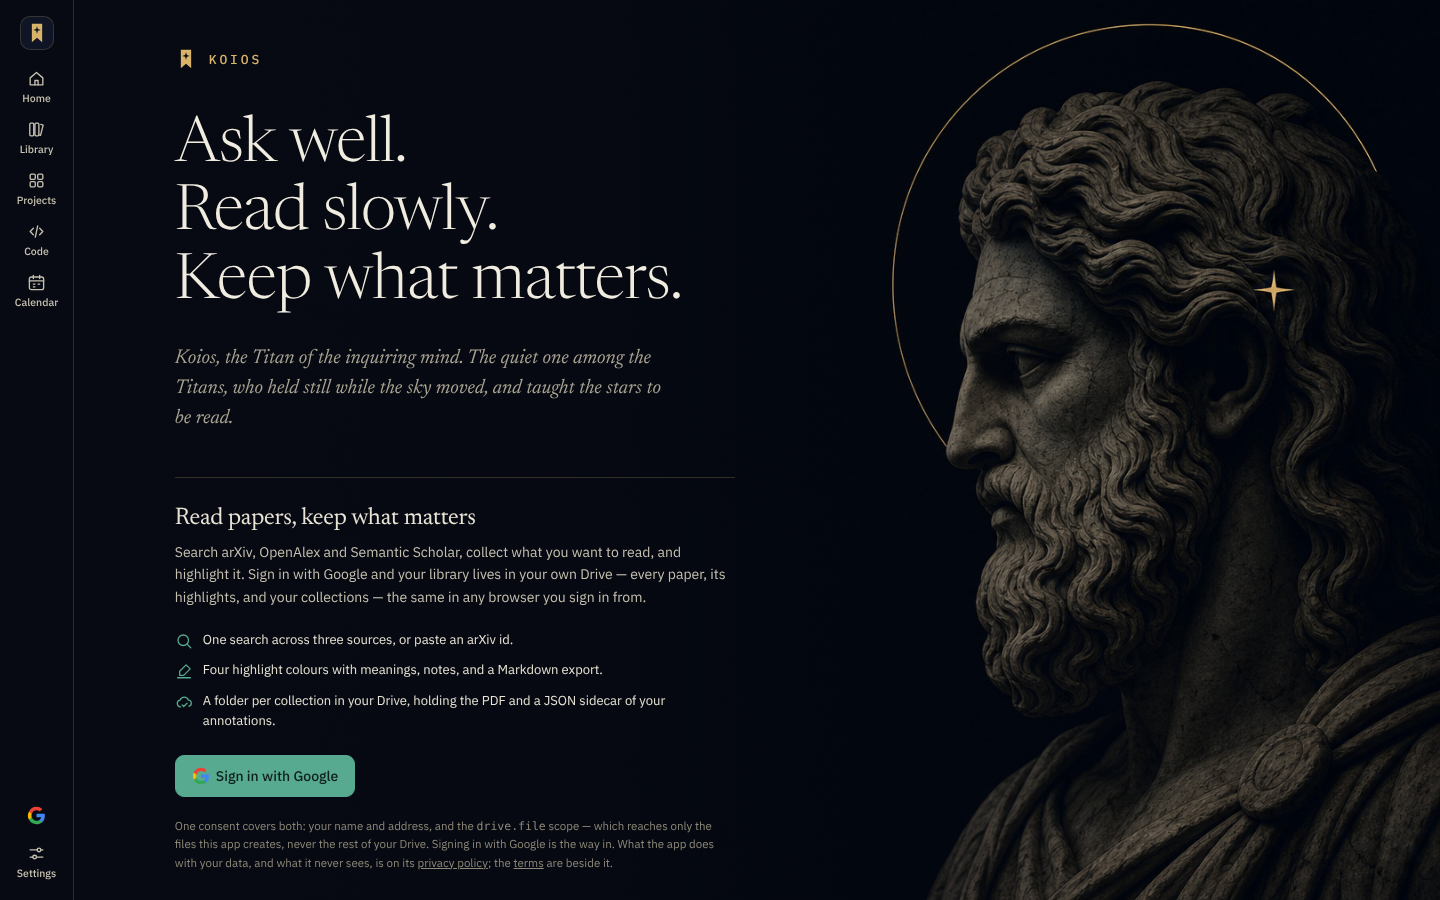
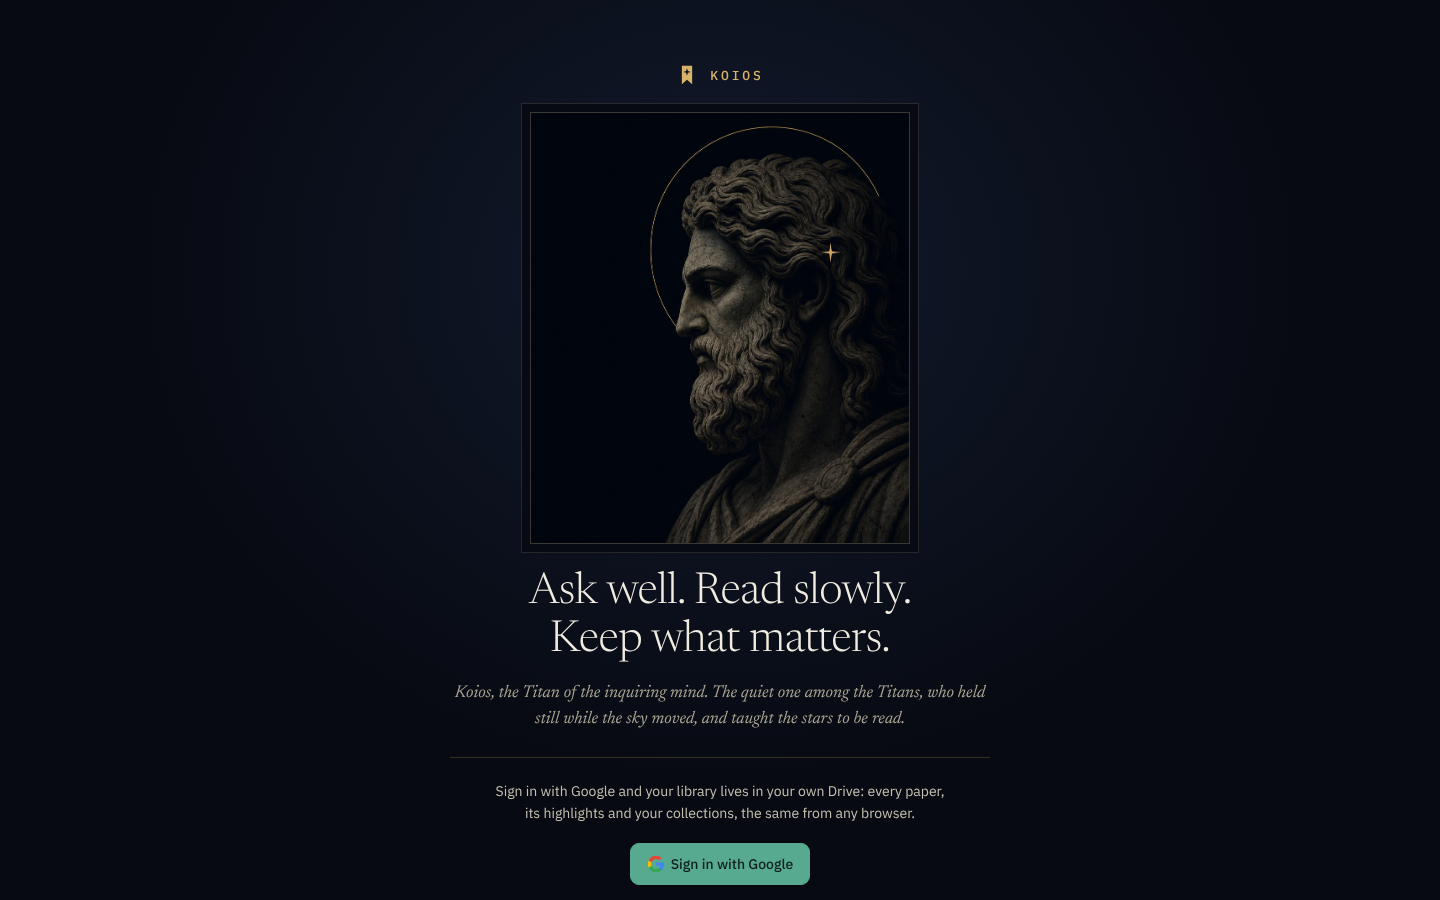
The opening screen keeps the scene in the middle, as a plate, with the sign-in under it
The picture is a tall crop around its subject, framed by a hairline, in the
middle of the page; the mark above it, the two lines and the introduction
under it, then one line on what signing in does, the button, and the
consent note. The product paragraph and the three feature bullets go: the
page is the door, not the brochure. The rail stays away while the opening
screen is up, since nobody is in yet. Short screens tighten the plate and
the gaps so the button is above the fold.

Claude-Session: https://claude.ai/code/session_01S3WfDFs8F34XiydrQJQPwm

diff --git a/src/components/Welcome.tsx b/src/components/Welcome.tsx
@@ -1,10 +1,10 @@
 import { useEffect, useRef, useState } from 'react';
-import { NightScene, pickScene } from './NightScene';
+import { KoiosMark, pickScene, ScenePlate } from './NightScene';
 import { basePath, currentAddress, placeFor } from '../lib/route';
 import { useStore } from '../lib/store';
 import { captchaSiteKey, hasProxy, setCaptchaAnswer } from '../lib/api';
 import { prepare as prepareGoogle, SIGN_IN_REQUIRED } from '../lib/google';
-import { CheckIcon, CloudCheckIcon, GoogleMark, HighlighterIcon, SearchIcon } from './icons';
+import { CheckIcon, GoogleMark } from './icons';
 import { linkGreeting, pendingInvite, type Greeting } from '../lib/invites';
 import { initials } from '../lib/presence';
 import { openSettings } from '../lib/openSettings';
@@ -58,12 +58,25 @@ export default function Welcome({ onDismiss }: { onDismiss: () => void }) {
     if (configured) prepareGoogle();
   }, [configured]);
 
-  // The opening screen stands on the scene the loading screen stood on: the
-  // same picture, the same words, and under them the way in.
+  // The opening screen keeps the scene the loading screen stood on — the same
+  // picture, as a plate in the middle, the same words under it — and under
+  // them the way in. The rail stays away until someone is in (App.tsx).
   const scene = pickScene();
 
   return (
-    <NightScene scene={scene} className="main is-welcome">
+    <div className="main night night-scene is-welcome is-centred">
+      <div className="night-mark is-centred">
+        <KoiosMark />
+        <span>koios</span>
+      </div>
+      <ScenePlate scene={scene} />
+      <div className="night-copy is-centred">
+        <h1>
+          {scene.headline[0]}
+          <br />
+          {scene.headline[1]}
+        </h1>
+        <p className="night-intro">{scene.intro}</p>
       <div className="night-signin">
         {invited && !user ? (
           <div className="welcome-greeting">
@@ -89,33 +102,11 @@ export default function Welcome({ onDismiss }: { onDismiss: () => void }) {
             </div>
           </div>
         ) : null}
-        <h2 className="night-h2">{returning ? 'Reconnect your Drive' : 'Read papers, keep what matters'}</h2>
-        <p style={{ margin: '0 0 22px', fontSize: 14, lineHeight: 1.6, color: 'var(--ink-2)' }}>
+        <p className="night-why">
           {returning
-            ? 'A sign-in lasts as long as the token Google gives it, about an hour, and this one has run out. One click reconnects, and Google will not ask again what you have already agreed to. Papers you add then go to your Drive as you collect them.'
-            : 'Search arXiv, OpenAlex and Semantic Scholar, collect what you want to read, and highlight it. Sign in with Google and your library lives in your own Drive — every paper, its highlights, and your collections — the same in any browser you sign in from.'}
+            ? 'Your sign-in has run out, as Google’s do after about an hour. One click reconnects your Drive, and Google will not ask again what you have already agreed to.'
+            : 'Sign in with Google and your library lives in your own Drive: every paper, its highlights and your collections, the same from any browser.'}
         </p>
-
-        <div style={{ display: 'flex', flexDirection: 'column', gap: 10, marginBottom: 24 }}>
-          <div style={{ display: 'flex', gap: 10, alignItems: 'flex-start' }}>
-            <SearchIcon size={18} style={{ color: 'var(--accent)', marginTop: 2, flexShrink: 0 }} />
-            <p style={{ margin: 0, fontSize: 13, lineHeight: 1.55 }}>
-              One search across three sources, or paste an arXiv id.
-            </p>
-          </div>
-          <div style={{ display: 'flex', gap: 10, alignItems: 'flex-start' }}>
-            <HighlighterIcon size={18} style={{ color: 'var(--accent)', marginTop: 2, flexShrink: 0 }} />
-            <p style={{ margin: 0, fontSize: 13, lineHeight: 1.55 }}>
-              Four highlight colours with meanings, notes, and a Markdown export.
-            </p>
-          </div>
-          <div style={{ display: 'flex', gap: 10, alignItems: 'flex-start' }}>
-            <CloudCheckIcon size={18} style={{ color: 'var(--accent)', marginTop: 2, flexShrink: 0 }} />
-            <p style={{ margin: 0, fontSize: 13, lineHeight: 1.55 }}>
-              A folder per collection in your Drive, holding the PDF and a JSON sidecar of your annotations.
-            </p>
-          </div>
-        </div>
 
         {authError ? (
           <p className="banner error" style={{ marginBottom: 14 }}>
@@ -191,7 +182,8 @@ export default function Welcome({ onDismiss }: { onDismiss: () => void }) {
           ; the <a href={`${basePath()}terms/`} style={{ color: 'inherit' }}>terms</a> are beside it.
         </p>
       </div>
-    </NightScene>
+      </div>
+    </div>
   );
 }
 

diff --git a/src/styles.css b/src/styles.css
@@ -8867,3 +8867,54 @@ button.cal-time-num:hover { background: rgba(127, 127, 127, 0.14); }
 /* The rail's mark, at night: gold on the navy tile, like the opening screen's. */
 :root[data-theme='dark'] .brand { background: var(--surface); color: var(--gold); box-shadow: inset 0 0 0 1px var(--border); }
 :root[data-theme='dark'] button.brand[aria-current='page'] { box-shadow: inset 0 0 0 1px var(--border), 0 0 0 2px var(--rail), 0 0 0 3px var(--gold); }
+
+/* The opening screen, with the scene in the middle: the mark, the picture as
+   a tall plate, the two lines, and the way in under them. No rail: nobody is
+   in yet. */
+.night-scene.is-centred {
+  align-items: center;
+  justify-content: flex-start;
+  text-align: center;
+  gap: 26px;
+  padding: 64px var(--edge) 56px;
+}
+.night-scene.is-centred::before {
+  content: '';
+  position: absolute;
+  inset: 0;
+  background: radial-gradient(ellipse at 50% 30%, rgba(20, 28, 48, 0.9) 0%, rgba(7, 10, 18, 0) 58%);
+  pointer-events: none;
+}
+.night-mark.is-centred { position: relative; top: auto; left: auto; justify-content: center; }
+.night-plate {
+  position: relative;
+  flex: none;
+  margin: 0;
+  width: min(380px, 80vw);
+  height: min(48vh, 470px);
+  overflow: hidden;
+  border: 1px solid var(--border);
+  box-shadow: 0 0 0 8px var(--paper), 0 0 0 9px var(--border-soft);
+  background: var(--surface);
+}
+.night-plate img { display: block; width: 100%; height: 100%; object-fit: cover; opacity: 0; transition: opacity 0.9s ease; }
+.night-plate img.is-in { opacity: 1; }
+.night-copy.is-centred { align-items: center; max-width: 640px; gap: 16px; }
+.night-copy.is-centred h1 { font-size: clamp(30px, 3.1vw, 44px); }
+.night-copy.is-centred .night-intro { max-width: 540px; font-size: clamp(15px, 1.2vw, 18px); }
+.is-centred .night-signin { align-items: center; width: 100%; max-width: 540px; margin-top: 8px; padding-top: 22px; }
+.is-centred .night-signin > div { justify-content: center; }
+.is-centred .welcome-greeting { text-align: left; justify-content: flex-start; width: 100%; box-sizing: border-box; }
+.night-why { margin: 0 0 18px; max-width: 460px; font-size: 14px; line-height: 1.6; color: var(--ink-2); }
+@media (max-width: 760px) {
+  .night-scene.is-centred { padding: 40px 20px 48px; gap: 20px; }
+  .night-plate { width: min(300px, 78vw); height: min(44vh, 400px); }
+}
+@media (max-height: 760px) {
+  .night-scene.is-centred { padding-top: 36px; padding-bottom: 40px; gap: 18px; }
+  .night-plate { height: min(38vh, 400px); }
+  .night-copy.is-centred { gap: 12px; }
+  .night-copy.is-centred h1 { font-size: clamp(28px, 2.8vw, 38px); }
+  .is-centred .night-signin { margin-top: 2px; padding-top: 16px; }
+  .night-why { margin-bottom: 12px; }
+}

diff --git a/src/components/NightScene.tsx b/src/components/NightScene.tsx
@@ -101,7 +101,21 @@ export function SceneBackdrop({ scene }: { scene: Scene }) {
   );
 }
 
-/** A scene with the words on it: the loading screen is this with a rule at the foot; the opening screen puts its sign-in under the words. */
+/**
+ * The scene as a plate: a tall crop around its subject, framed by a hairline,
+ * for a page that keeps it in the middle. Every scene keeps its subject on
+ * the right, so the crop is taken from the right edge.
+ */
+export function ScenePlate({ scene }: { scene: Scene }) {
+  const [arrived, setArrived] = useState(false);
+  return (
+    <figure className="night-plate">
+      <img className={arrived ? 'is-in' : undefined} src={sceneUrl(scene)} alt="" decoding="async" onLoad={() => setArrived(true)} style={{ objectPosition: '100% 50%' }} />
+    </figure>
+  );
+}
+
+/** A scene with the words on it: the loading screen is this with a rule at the foot. */
 export function NightScene({ scene, className, children, foot }: { scene: Scene; className?: string; children?: ReactNode; foot?: ReactNode }) {
   return (
     <div className={`night night-scene${className ? ` ${className}` : ''}`} style={{ '--focus': scene.focus } as CSSProperties}>

diff --git a/src/App.tsx b/src/App.tsx
@@ -1318,7 +1318,7 @@ export default function App() {
       className={`app${inZen ? ` is-zen haze-${settings.zenHaze}` : ''}${inZen && fullscreen ? ' is-fullscreen' : ''}${inZen && peek ? ` peek-${peek}` : ''}${besideInZen ? ' notes-beside' : ''}${!inZen && dockSlide ? ` dock-slide-${dockSlide}` : ''}`}
       {...zenPointer}
     >
-{navStyle === 'classic' ? (
+{showWelcome ? null : navStyle === 'classic' ? (
       <nav className="rail" aria-label="Primary">
         <button
           type="button"

diff --git a/README.md b/README.md
@@ -3094,10 +3094,12 @@ not the same twice running.
 
 ![the loading screen: a gold line drawing of an armillary sphere on a navy sky, "What is worth knowing is worth finding", and a hairline with a star on it under "Reading your library from Drive"](docs/night-loading.png)
 
-The opening screen, where Drive is connected, stands on the same scene the
-loading screen stood on, with the sign-in under the words.
+The opening screen, where Drive is connected, keeps the scene the loading
+screen chose, as a plate in the middle of the page: the mark above it, the
+two lines and the introduction under it, then the sign-in. The rail stays
+away until someone is in.
 
-![the opening screen: an engraved marble profile under a gold ring, "Ask well. Read slowly. Keep what matters.", and the sign-in beneath a hairline](docs/night-welcome.png)
+![the opening screen: an engraved marble profile under a gold ring, framed as a plate in the middle, "Ask well. Read slowly. Keep what matters." beneath it, and the sign-in under a hairline](docs/night-welcome.png)
 
 The dark theme is the same night: a navy ground instead of grey, cream ink,
 gold hairlines where the lines were grey, and the bookmark mark in gold on
